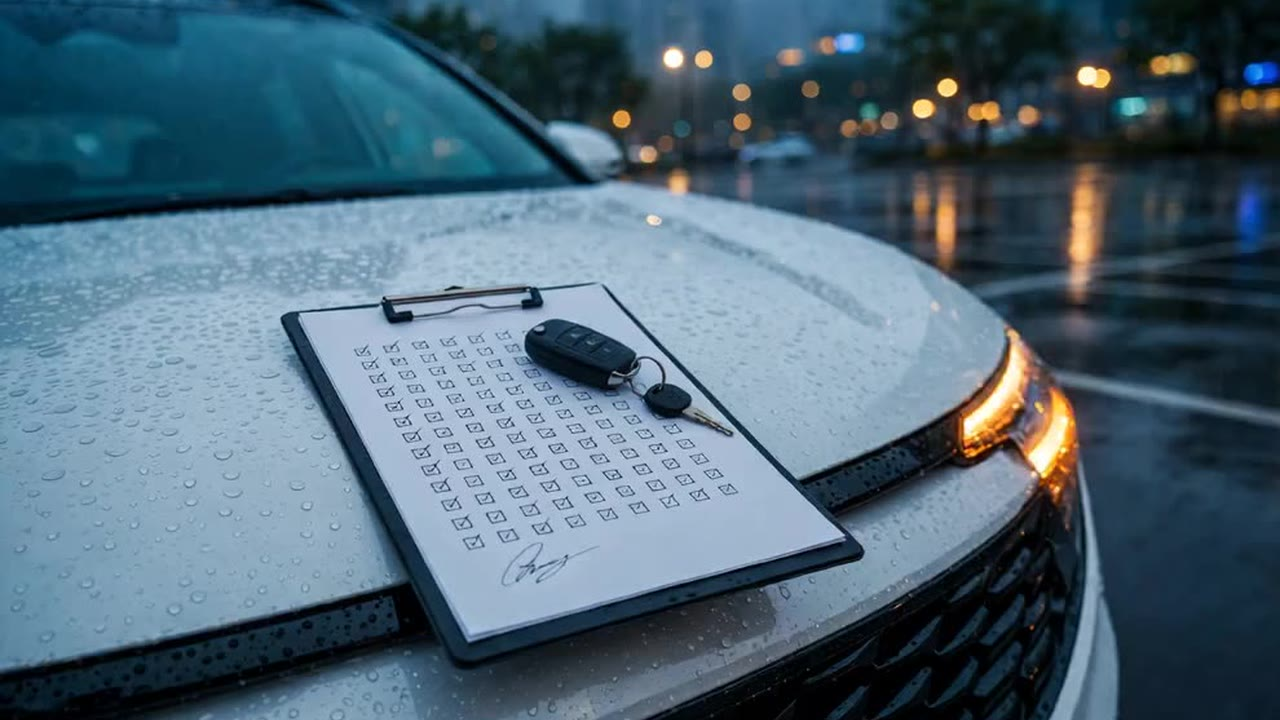
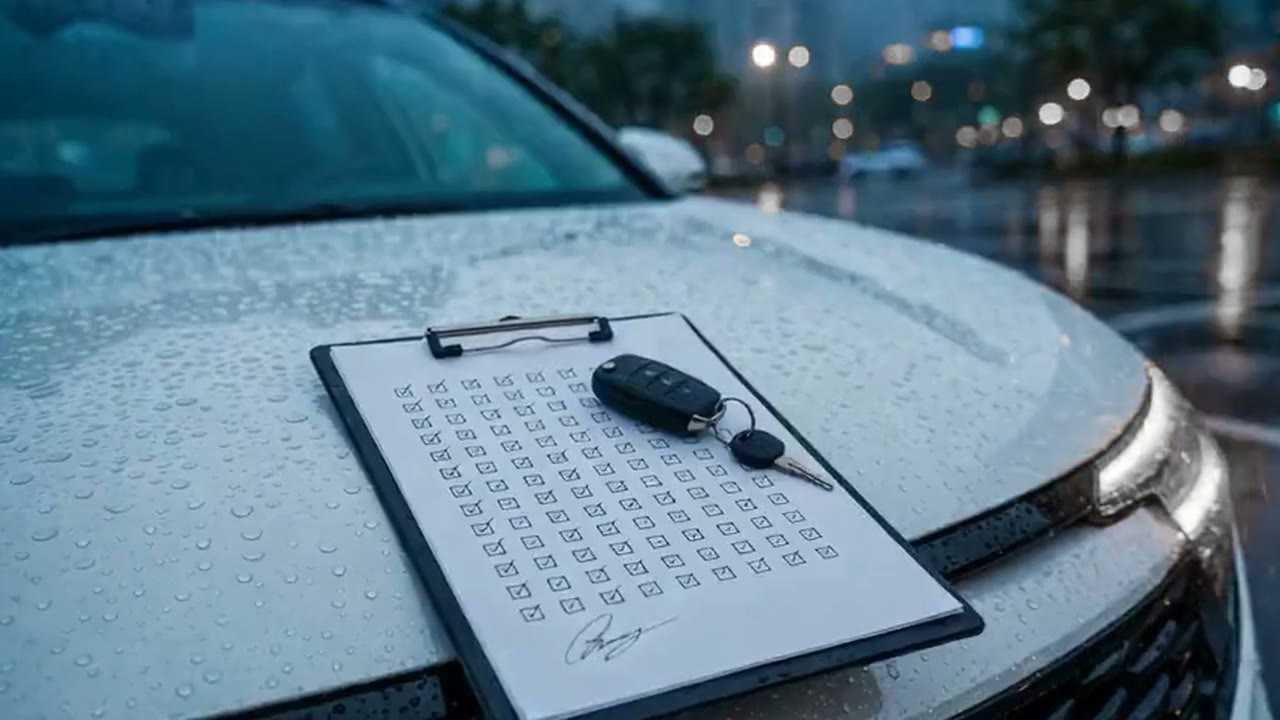
film v4: keys shot without the yellow headlight (crop + neutral lamps), carrier shot with the silver car cut, at-sea shot replaced by a Muse Image still with the stern ramp closed (push-in)

diff --git a/src/components/film4/story.ts b/src/components/film4/story.ts
@@ -85,19 +85,19 @@ export const SCENES: Scene[] = [
 
   // ── III · the crossing ──
   { id: "act3", card: { n: "III", title: ACTS[2].title, sub: { en: "Korea · the sea · the border", ru: "Корея · море · граница" } }, vh: 75, sec: 3.5, act: 2, in: "dip", insured: true },
-  { id: "load", clip: "k4-1", vh: 105, sec: 5, act: 2, in: "dip", insured: true, toast: L.kr, lines: [
-    { en: "Deregistered. Export papers ready.", ru: "Снята с учёта. Экспортные документы готовы." }] },
-  { id: "hwy", clip: "s4-2", vh: 90, sec: 4, act: 2, in: "wipe", insured: true, posM: "35% 50%", lines: [
+  // k4-1 (carrier at the port) was cut: the car on top reads silver, not our white Kia
+  { id: "hwy", clip: "s4-2", vh: 125, sec: 6, act: 2, in: "dip", insured: true, toast: L.kr, posM: "35% 50%", lines: [
+    { en: "Deregistered. Export papers ready.", ru: "Снята с учёта. Экспортные документы готовы." },
     { en: "Course: Busan.", ru: "Курс — Пусан." }] },
   { id: "mapkr", insert: "mapKr", bg: "s4-2", vh: 80, sec: 4, act: 2, insured: true },
   { id: "busan", clip: "s5-1", vh: 160, sec: 9, act: 2, insured: true, receipt: "busan", posM: "60% 50%", lines: [
     { en: "In Korea, you pay one invoice.", ru: "В Корее вы оплачиваете один инвойс." },
     { en: "The car, the platform fee, freight at the carrier's public tariff.", ru: "Машина, комиссия площадки и фрахт по открытому тарифу перевозчика." },
     { en: "Nothing on top.", ru: "Сверху — ничего." }] },
-  { id: "sea", clip: "s6-1", vh: 120, sec: 6, act: 2, in: "zoom", insured: true, lines: [
+  { id: "sea", clip: "sea-v4", /* Muse Image still (closed stern ramp), push-in; the Wan clip s6-1 sailed with the ramp open */ vh: 120, sec: 6, act: 2, in: "zoom", insured: true, lines: [
     { en: "A few days at sea.", ru: "Несколько дней в море." },
     { en: "You see where she is — in your portal and in Telegram.", ru: "Где она сейчас — видно в кабинете и в Telegram." }] },
-  { id: "fan", insert: "mapFan", bg: "s6-1", vh: 130, sec: 7, act: 2, insured: true, lines: [
+  { id: "fan", insert: "mapFan", bg: "sea-v4", vh: 130, sec: 7, act: 2, insured: true, lines: [
     { en: "From Vladivostok, the roads split —", ru: "Из Владивостока дороги расходятся —" },
     { en: "Moscow, Minsk, Prague, Almaty, Tashkent.", ru: "в Москву, Минск, Прагу, Алматы, Ташкент." }] },
   { id: "bay", clip: "s7-1", vh: 95, sec: 5, act: 2, in: "wipe", insured: true, big: true, lines: [
